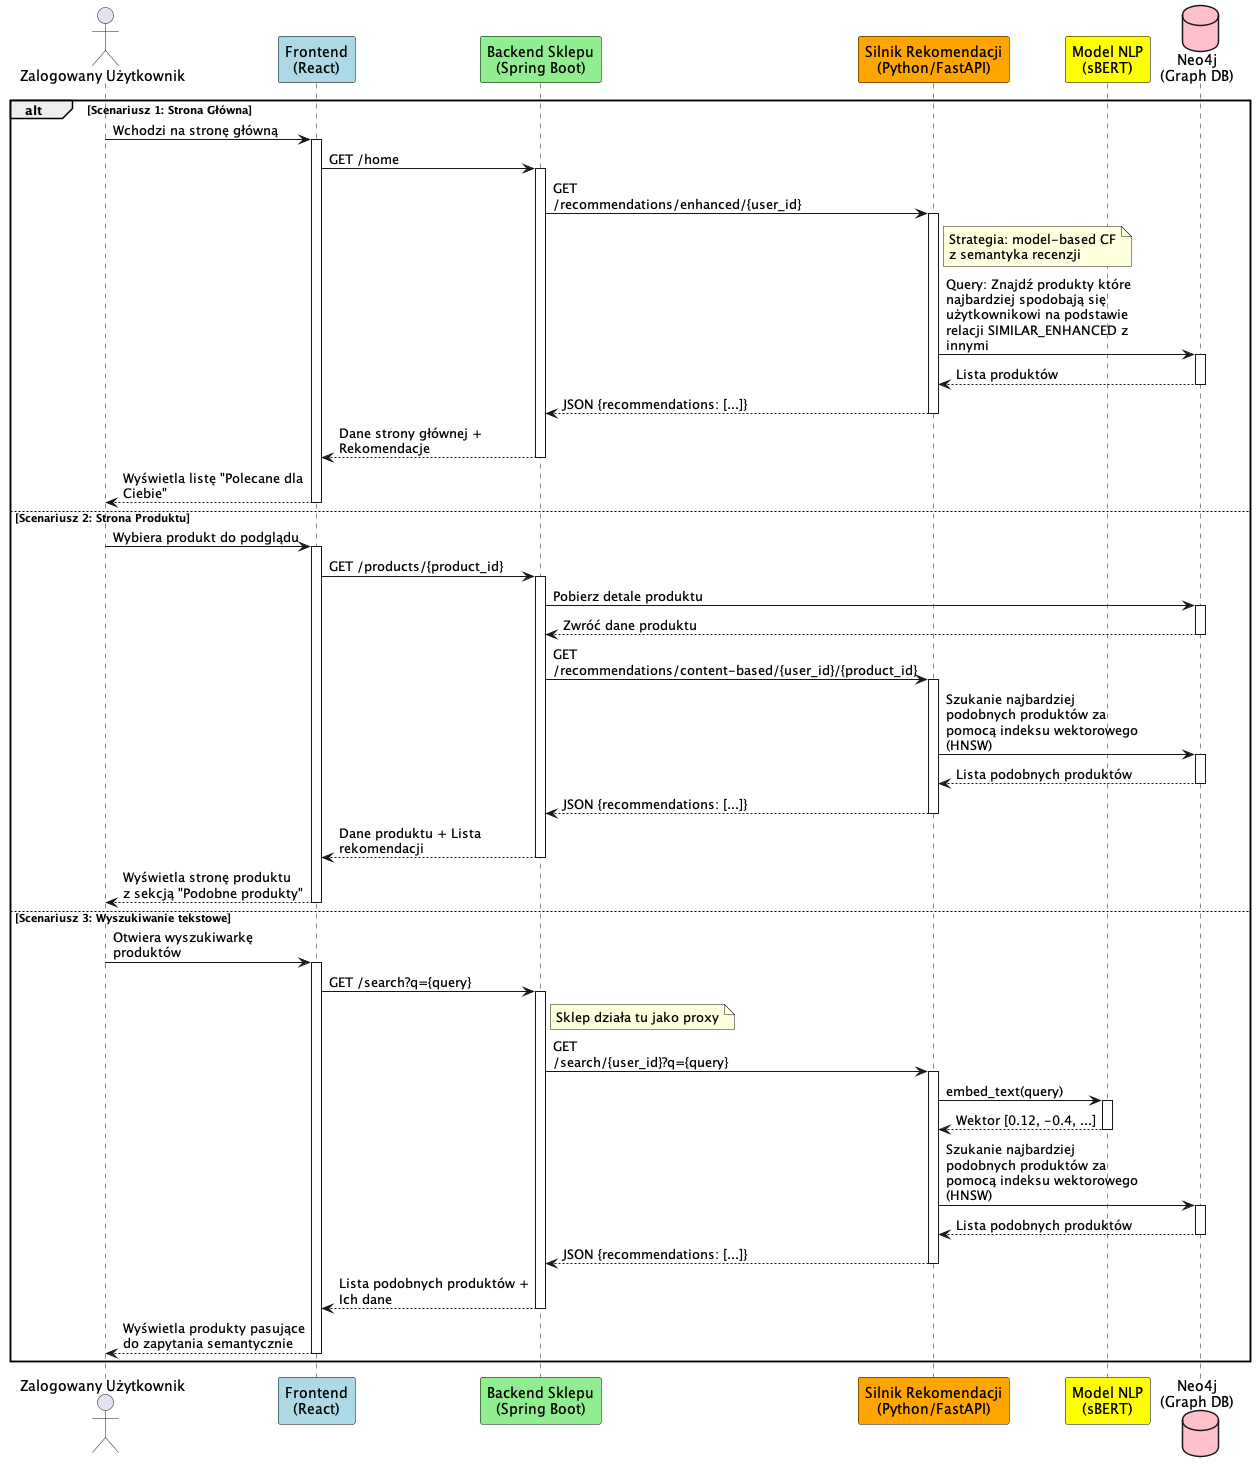
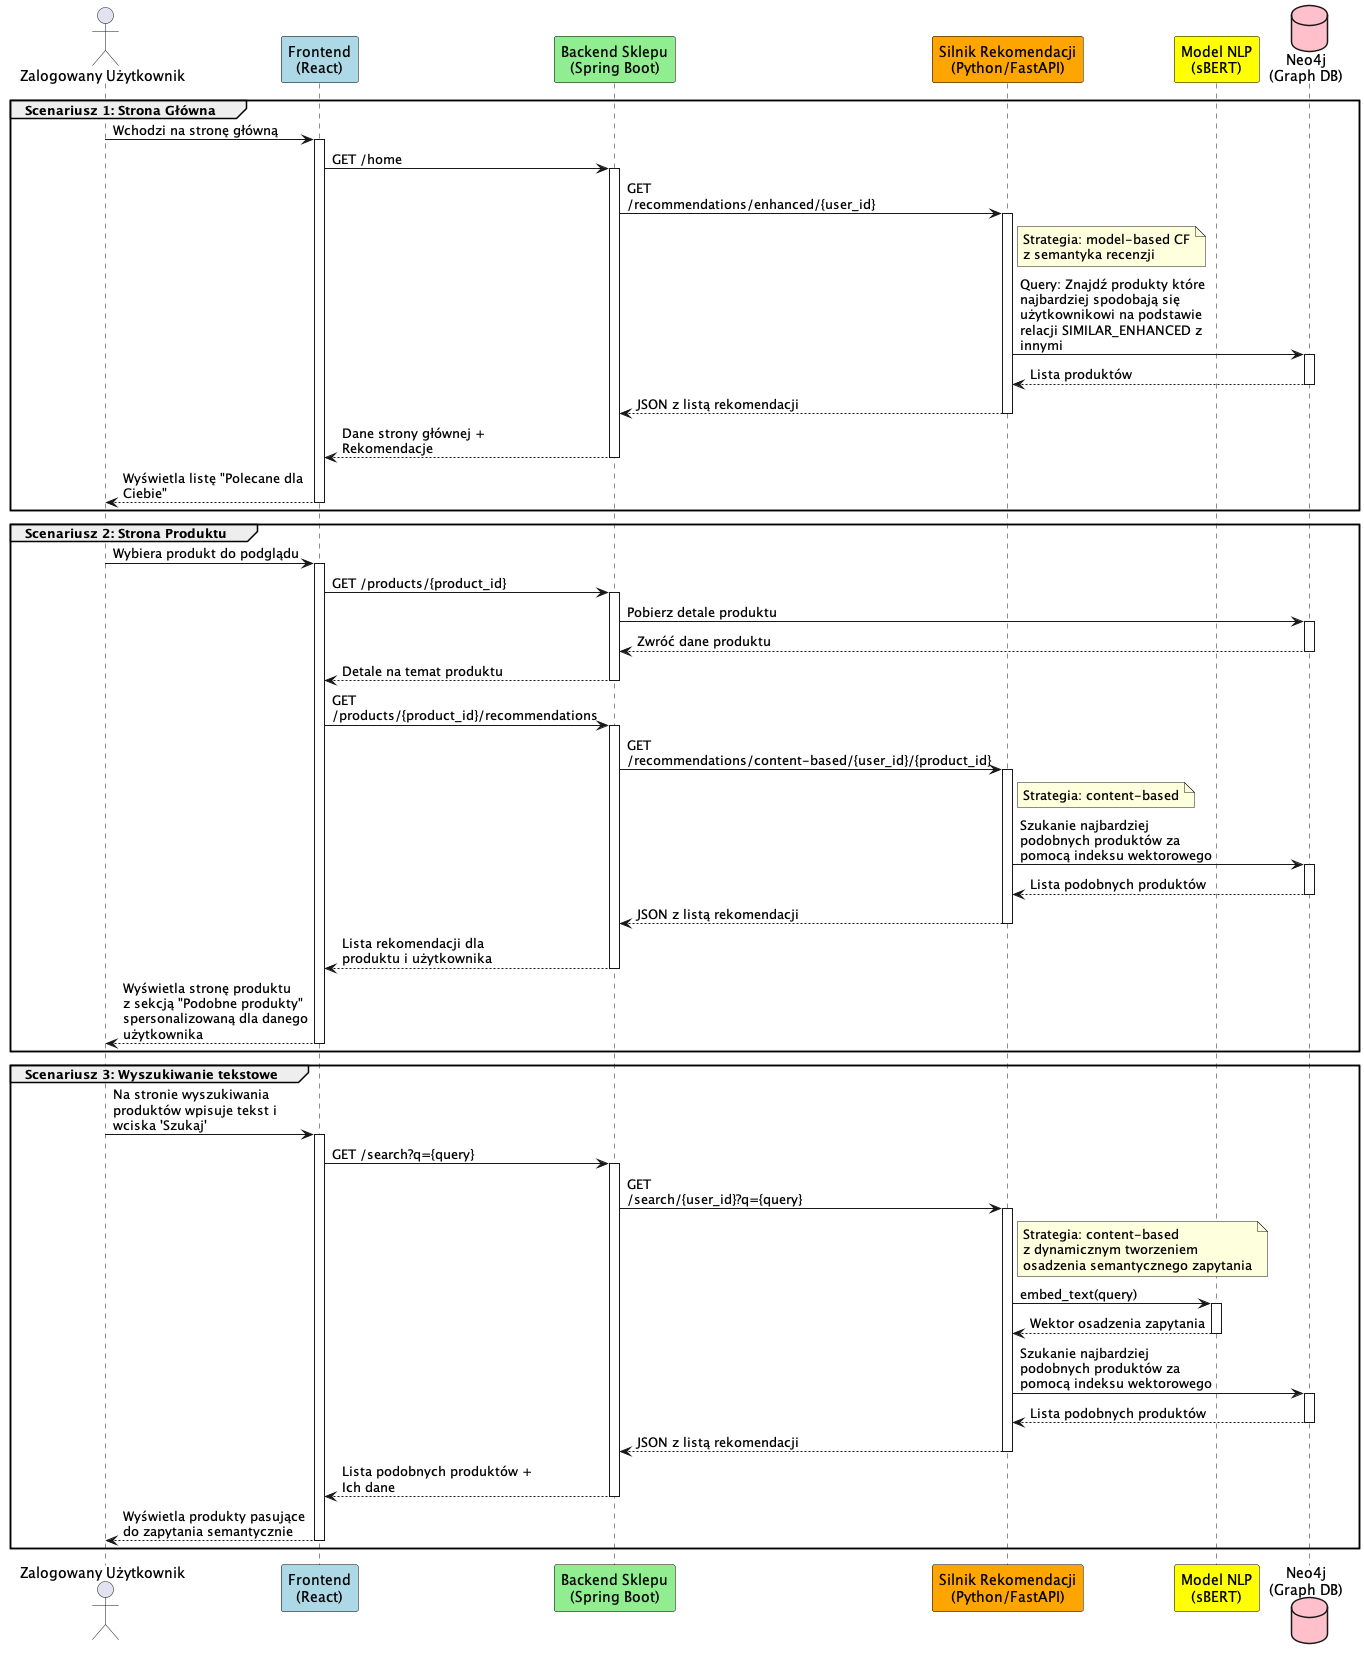
ready for sharing

diff --git a/api.py b/api.py
@@ -11,10 +11,10 @@ from recommenders.content_based import ContentBasedRecommender
 
 class ProductRecommendation(BaseModel):
     parent_asin: str
-    title: Optional[str] = None
-    predicted_score: Optional[float] = None
-    similarity_score: Optional[float] = None
-    similar_users_count: Optional[int] = None
+    title: Optional[str]
+    predicted_score: Optional[float]
+    similarity_score: Optional[float]
+    similar_users_count: Optional[int]
 
 class RecommendationResponse(BaseModel):
     user_id: str

diff --git a/README.md b/README.md
@@ -1,3 +1,8 @@
 # Recommendation_engine
 
 To run : uvicorn api:app --reload --port 8000
+
+Syntax explanation:
+api - name of the file
+app - name of the fastapi app component
+--reload  = reload on every change